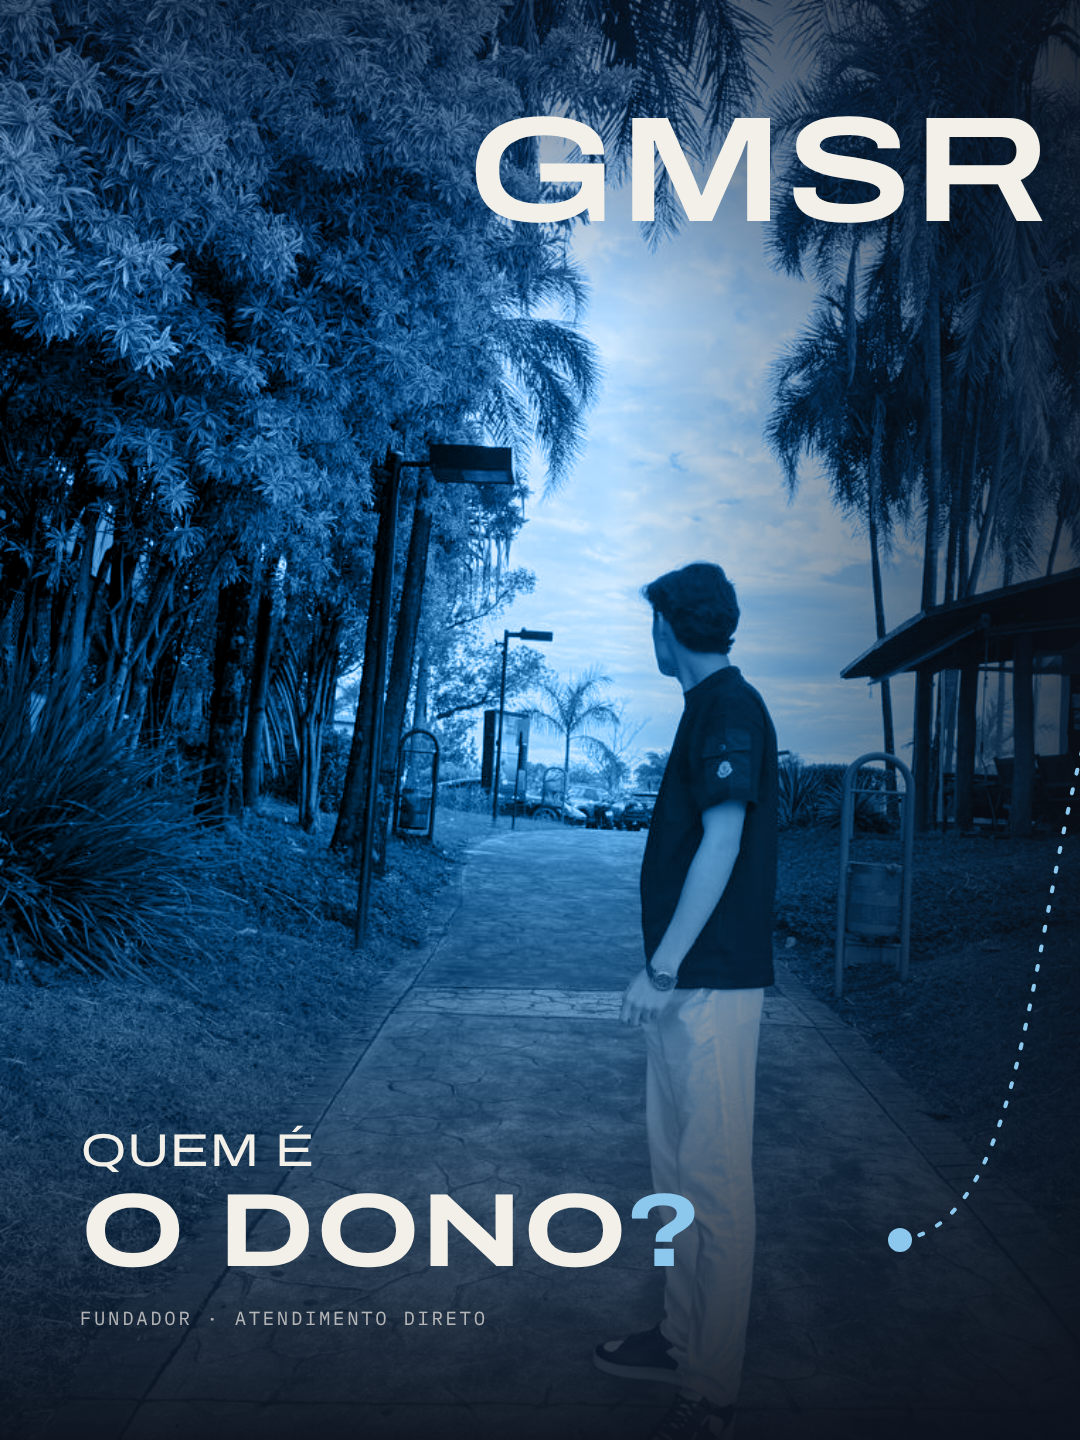
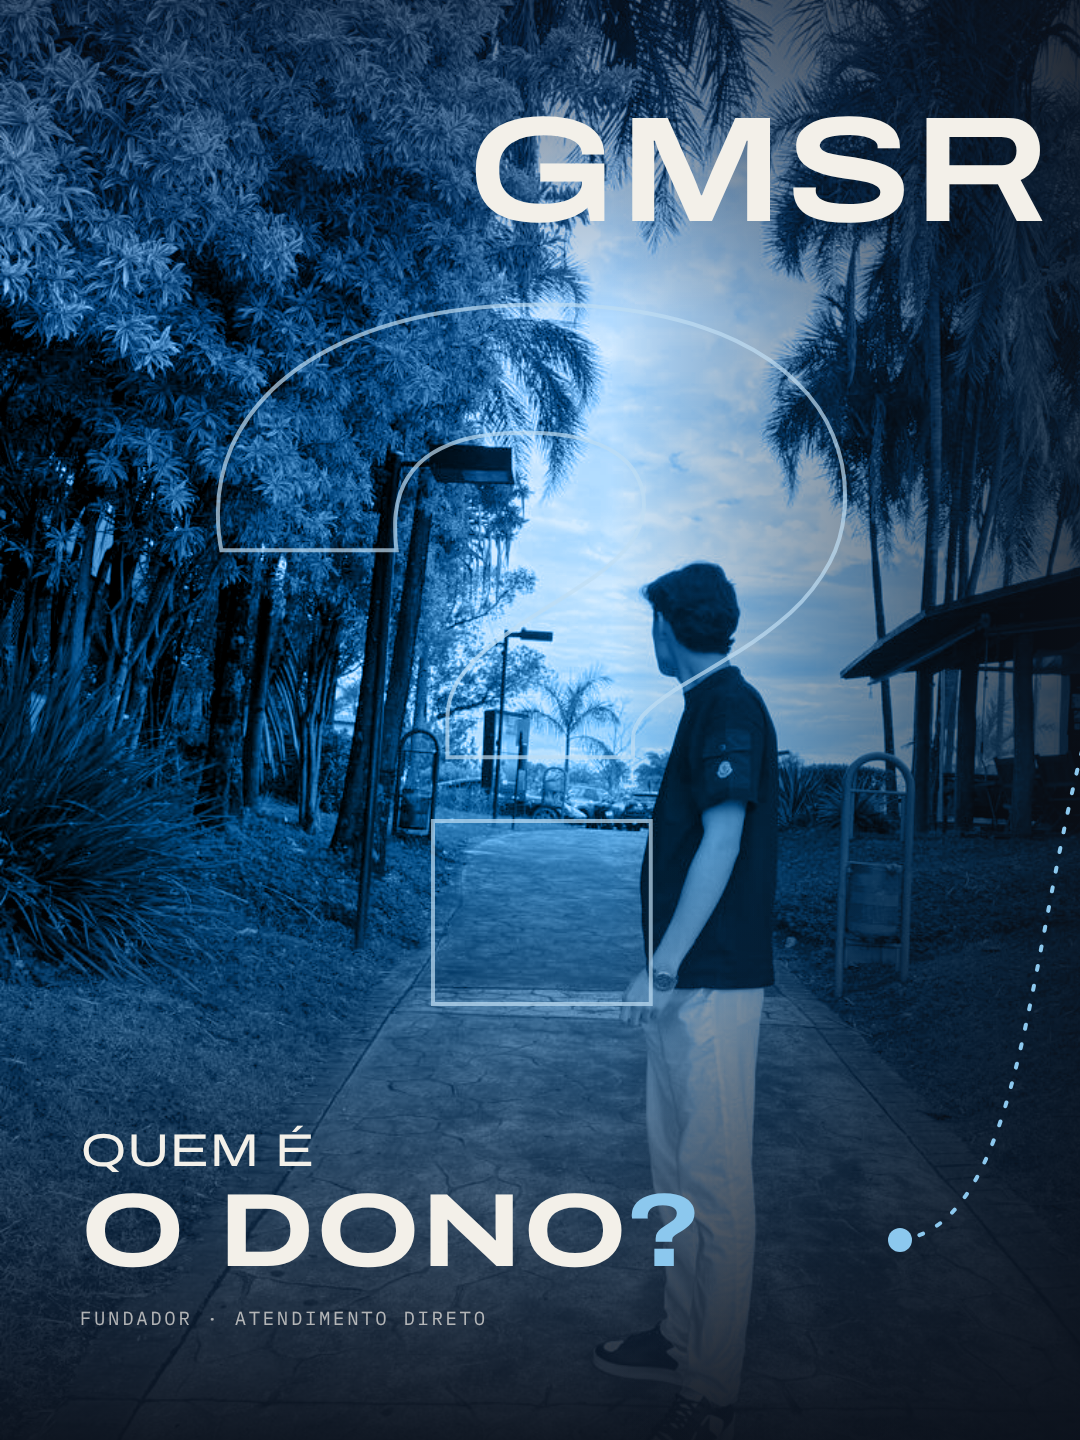
"Quem é o dono": volta o "?" grande sobre a foto azul
Claude-Session: https://claude.ai/code/session_018Rxm36svjxPgU3W8TLCnbb

diff --git a/posts-grade/02-grade-mapa-processo/slides.html b/posts-grade/02-grade-mapa-processo/slides.html
@@ -58,6 +58,7 @@
   .pano .photo.dono img{filter:grayscale(1) contrast(1.1) brightness(.9)}
   .pano .photo.dono:before{content:"";position:absolute;inset:0;z-index:1;background:linear-gradient(180deg,#1C4F86,#3E8FCB 55%,#163A63);mix-blend-mode:color}
   .pano .photo.dono:after{z-index:2;background:linear-gradient(90deg,transparent 45%,rgba(11,17,27,.85) 82%,#0B111B 100%),linear-gradient(180deg,rgba(11,17,27,.55),transparent 22%,transparent 58%,rgba(11,17,27,.95)) !important}
+  .pano .ask2{z-index:3;-webkit-text-stroke:4px rgba(191,221,242,.7)}
 </style>
 </head>
 <body>
@@ -78,7 +79,7 @@
 
 <template id="art">
   <div class="pano">
-    <div class="photo dono"><img src="../../assets/fotos/dono.jpg" style="object-position:62% 40%" alt=""></div>
+    <div class="photo dono"><img src="../../assets/fotos/dono.jpg" style="object-position:62% 40%" alt=""><div class="ask ask2">?</div></div>
 
     <!-- rota tracejada que liga o meio à direita -->
     <svg class="route" viewBox="0 0 2160 1440">

diff --git a/posts-grade/04-carrossel-dono/slides.html b/posts-grade/04-carrossel-dono/slides.html
@@ -116,12 +116,13 @@
   .pano .photo.dono img{filter:grayscale(1) contrast(1.1) brightness(.9)}
   .pano .photo.dono:before{content:"";position:absolute;inset:0;z-index:1;background:linear-gradient(180deg,#1C4F86,#3E8FCB 55%,#163A63);mix-blend-mode:color}
   .pano .photo.dono:after{z-index:2;background:linear-gradient(90deg,transparent 45%,rgba(11,17,27,.85) 82%,#0B111B 100%),linear-gradient(180deg,rgba(11,17,27,.55),transparent 22%,transparent 58%,rgba(11,17,27,.95)) !important}
+  .pano .ask2{z-index:3;-webkit-text-stroke:4px rgba(191,221,242,.7)}
 </style>
 </head>
 <body>
 <template id="art">
   <div class="pano">
-    <div class="photo dono"><img src="../../assets/fotos/dono.jpg" style="object-position:62% 40%" alt=""></div>
+    <div class="photo dono"><img src="../../assets/fotos/dono.jpg" style="object-position:62% 40%" alt=""><div class="ask ask2">?</div></div>
 
     <!-- rota tracejada que liga o meio à direita -->
     <svg class="route" viewBox="0 0 2160 1440">

diff --git a/posts-grade/03-carrossel-processo/slides.html b/posts-grade/03-carrossel-processo/slides.html
@@ -95,12 +95,13 @@
   .pano .photo.dono img{filter:grayscale(1) contrast(1.1) brightness(.9)}
   .pano .photo.dono:before{content:"";position:absolute;inset:0;z-index:1;background:linear-gradient(180deg,#1C4F86,#3E8FCB 55%,#163A63);mix-blend-mode:color}
   .pano .photo.dono:after{z-index:2;background:linear-gradient(90deg,transparent 45%,rgba(11,17,27,.85) 82%,#0B111B 100%),linear-gradient(180deg,rgba(11,17,27,.55),transparent 22%,transparent 58%,rgba(11,17,27,.95)) !important}
+  .pano .ask2{z-index:3;-webkit-text-stroke:4px rgba(191,221,242,.7)}
 </style>
 </head>
 <body>
 <template id="art">
   <div class="pano">
-    <div class="photo dono"><img src="../../assets/fotos/dono.jpg" style="object-position:62% 40%" alt=""></div>
+    <div class="photo dono"><img src="../../assets/fotos/dono.jpg" style="object-position:62% 40%" alt=""><div class="ask ask2">?</div></div>
 
     <!-- rota tracejada que liga o meio à direita -->
     <svg class="route" viewBox="0 0 2160 1440">
